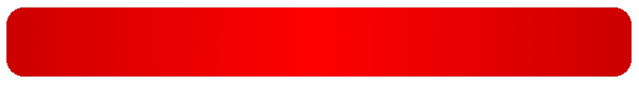
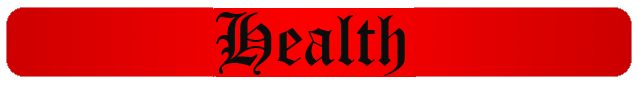
Added Health and Insanity text

Changed region(s): [[0.3271, 0.1412, 0.6541, 0.9176], [0.3271, 0.0706, 0.6541, 0.0941]]

diff --git a/KeysToInsanity/KeysToInsanity/Code/Environment/RectangleCollision.cs b/KeysToInsanity/KeysToInsanity/Code/Environment/RectangleCollision.cs
@@ -50,12 +50,12 @@ namespace KeysToInsanity.Code
                 Rectangle data = new Rectangle();
                 if (s1.collidable && s2.collidable)
                 {
-                    double vf1, vf2;
+                    float vf1, vf2;
                     Velocity v1 = Velocity.FromCoordinates(s1.velocity.getDirection().X, 0.0f);
                     Velocity v2 = Velocity.FromCoordinates(s2.velocity.getDirection().X, 0.0f);
                     Rectangle collision = Rectangle.Intersect(new Rectangle(s1.getUpdatePositionFromVelocity(v1).ToPoint(), s1.spriteSize), new Rectangle(s2.getUpdatePositionFromVelocity(v2).ToPoint(), s2.spriteSize));
                     if (collision != Rectangle.Empty)
-                        vf1 = Math.Round(v1.getDirection().X + (Math.Sign(v1.getDirection().X) * -collision.Width));
+                        vf1 = v1.getDirection().X + (Math.Sign(v1.getDirection().X) * -collision.Width);
                     else
                         vf1 = v1.getDirection().X;
 
@@ -66,7 +66,7 @@ namespace KeysToInsanity.Code
                     v2 = Velocity.FromCoordinates(0.0f, s2.velocity.getDirection().Y);
                     collision = Rectangle.Intersect(new Rectangle(s1.getUpdatePositionFromVelocity(v1).ToPoint(), s1.spriteSize), new Rectangle(s2.getUpdatePositionFromVelocity(v2).ToPoint(), s2.spriteSize));
                     if (collision != Rectangle.Empty)
-                        vf2 = Math.Round(v1.getDirection().Y + (Math.Sign(v1.getDirection().Y) * -collision.Height));
+                        vf2 = v1.getDirection().Y + (Math.Sign(v1.getDirection().Y) * -collision.Height);
                     else
                         vf2 = v1.getDirection().Y;
 
@@ -77,7 +77,7 @@ namespace KeysToInsanity.Code
                     s1.onCollide(s2, data, time);
                     s2.onCollide(s1, data, time);
 
-                    return Velocity.FromCoordinates((float)vf1, (float) vf2);
+                    return Velocity.FromCoordinates(vf1, vf2);
                 }
                 else
                 {

diff --git a/KeysToInsanity/KeysToInsanity/Code/Interface/HUD.cs b/KeysToInsanity/KeysToInsanity/Code/Interface/HUD.cs
@@ -49,7 +49,7 @@ namespace KeysToInsanity.Code.Interface
             hud_insanity_color.spritePos = new Vector2(210, 0);
             
 
-        hud_key_frame.addTo(hudSprites);
+            hud_key_frame.addTo(hudSprites);
             hud_health_color.addTo(hudSprites);
             hud_health_frame.addTo(hudSprites);
             hud_insanity_color.addTo(hudSprites);
@@ -62,7 +62,7 @@ namespace KeysToInsanity.Code.Interface
         public void drawHUD(SpriteBatch spriteBatch)
         {
             gd.SetRenderTarget(spriteTex);
-            gd.DepthStencilState = new DepthStencilState() { DepthBufferEnable = true }; // didn't know you could do this until now
+            gd.DepthStencilState = new DepthStencilState() { DepthBufferEnable = true }; 
             gd.Clear(Color.White);
             
             // Draw HUD

diff --git a/KeysToInsanity/KeysToInsanity/Code/Input/BasicInput.cs b/KeysToInsanity/KeysToInsanity/Code/Input/BasicInput.cs
@@ -44,7 +44,7 @@ namespace KeysToInsanity.Code
                 if (downDown(kb))
                     yDiff += yVelocity;*/
                 if (spaceDown(kb))
-                    yDiff = -10;
+                    yDiff = -13;
                
 
                 //Velocity jumpVelocity = Velocity.FromDirection(90, yDiff);
